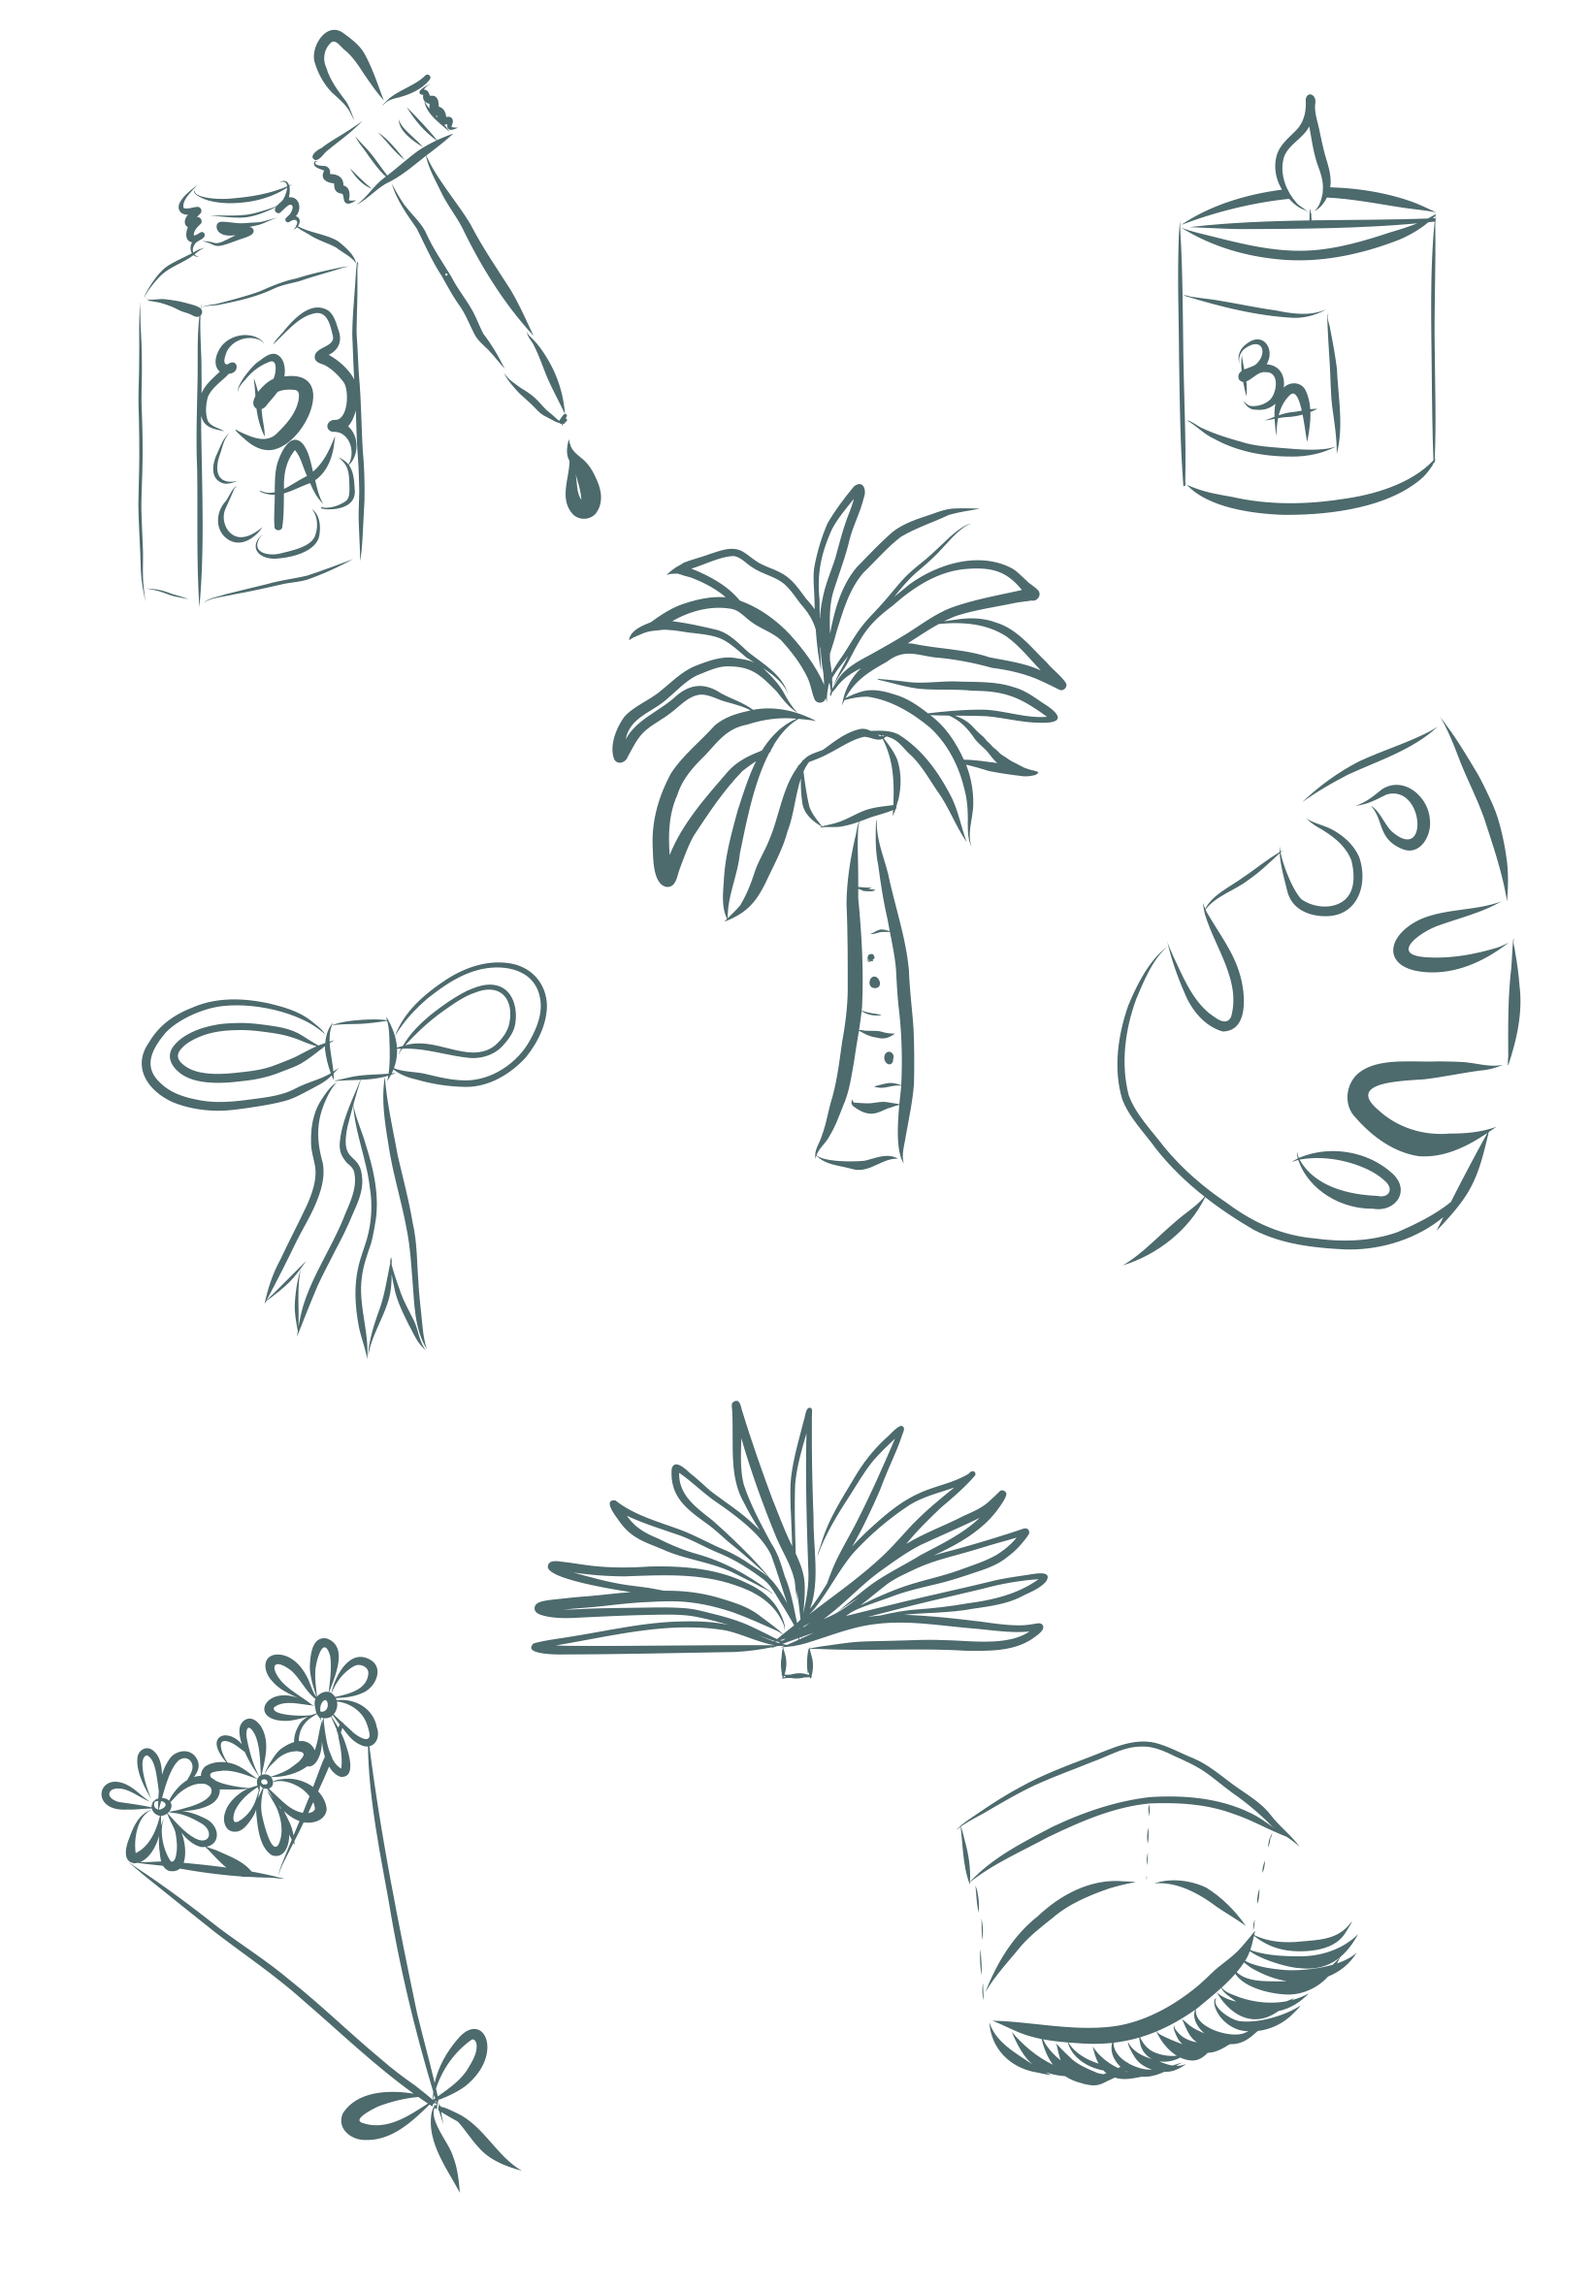
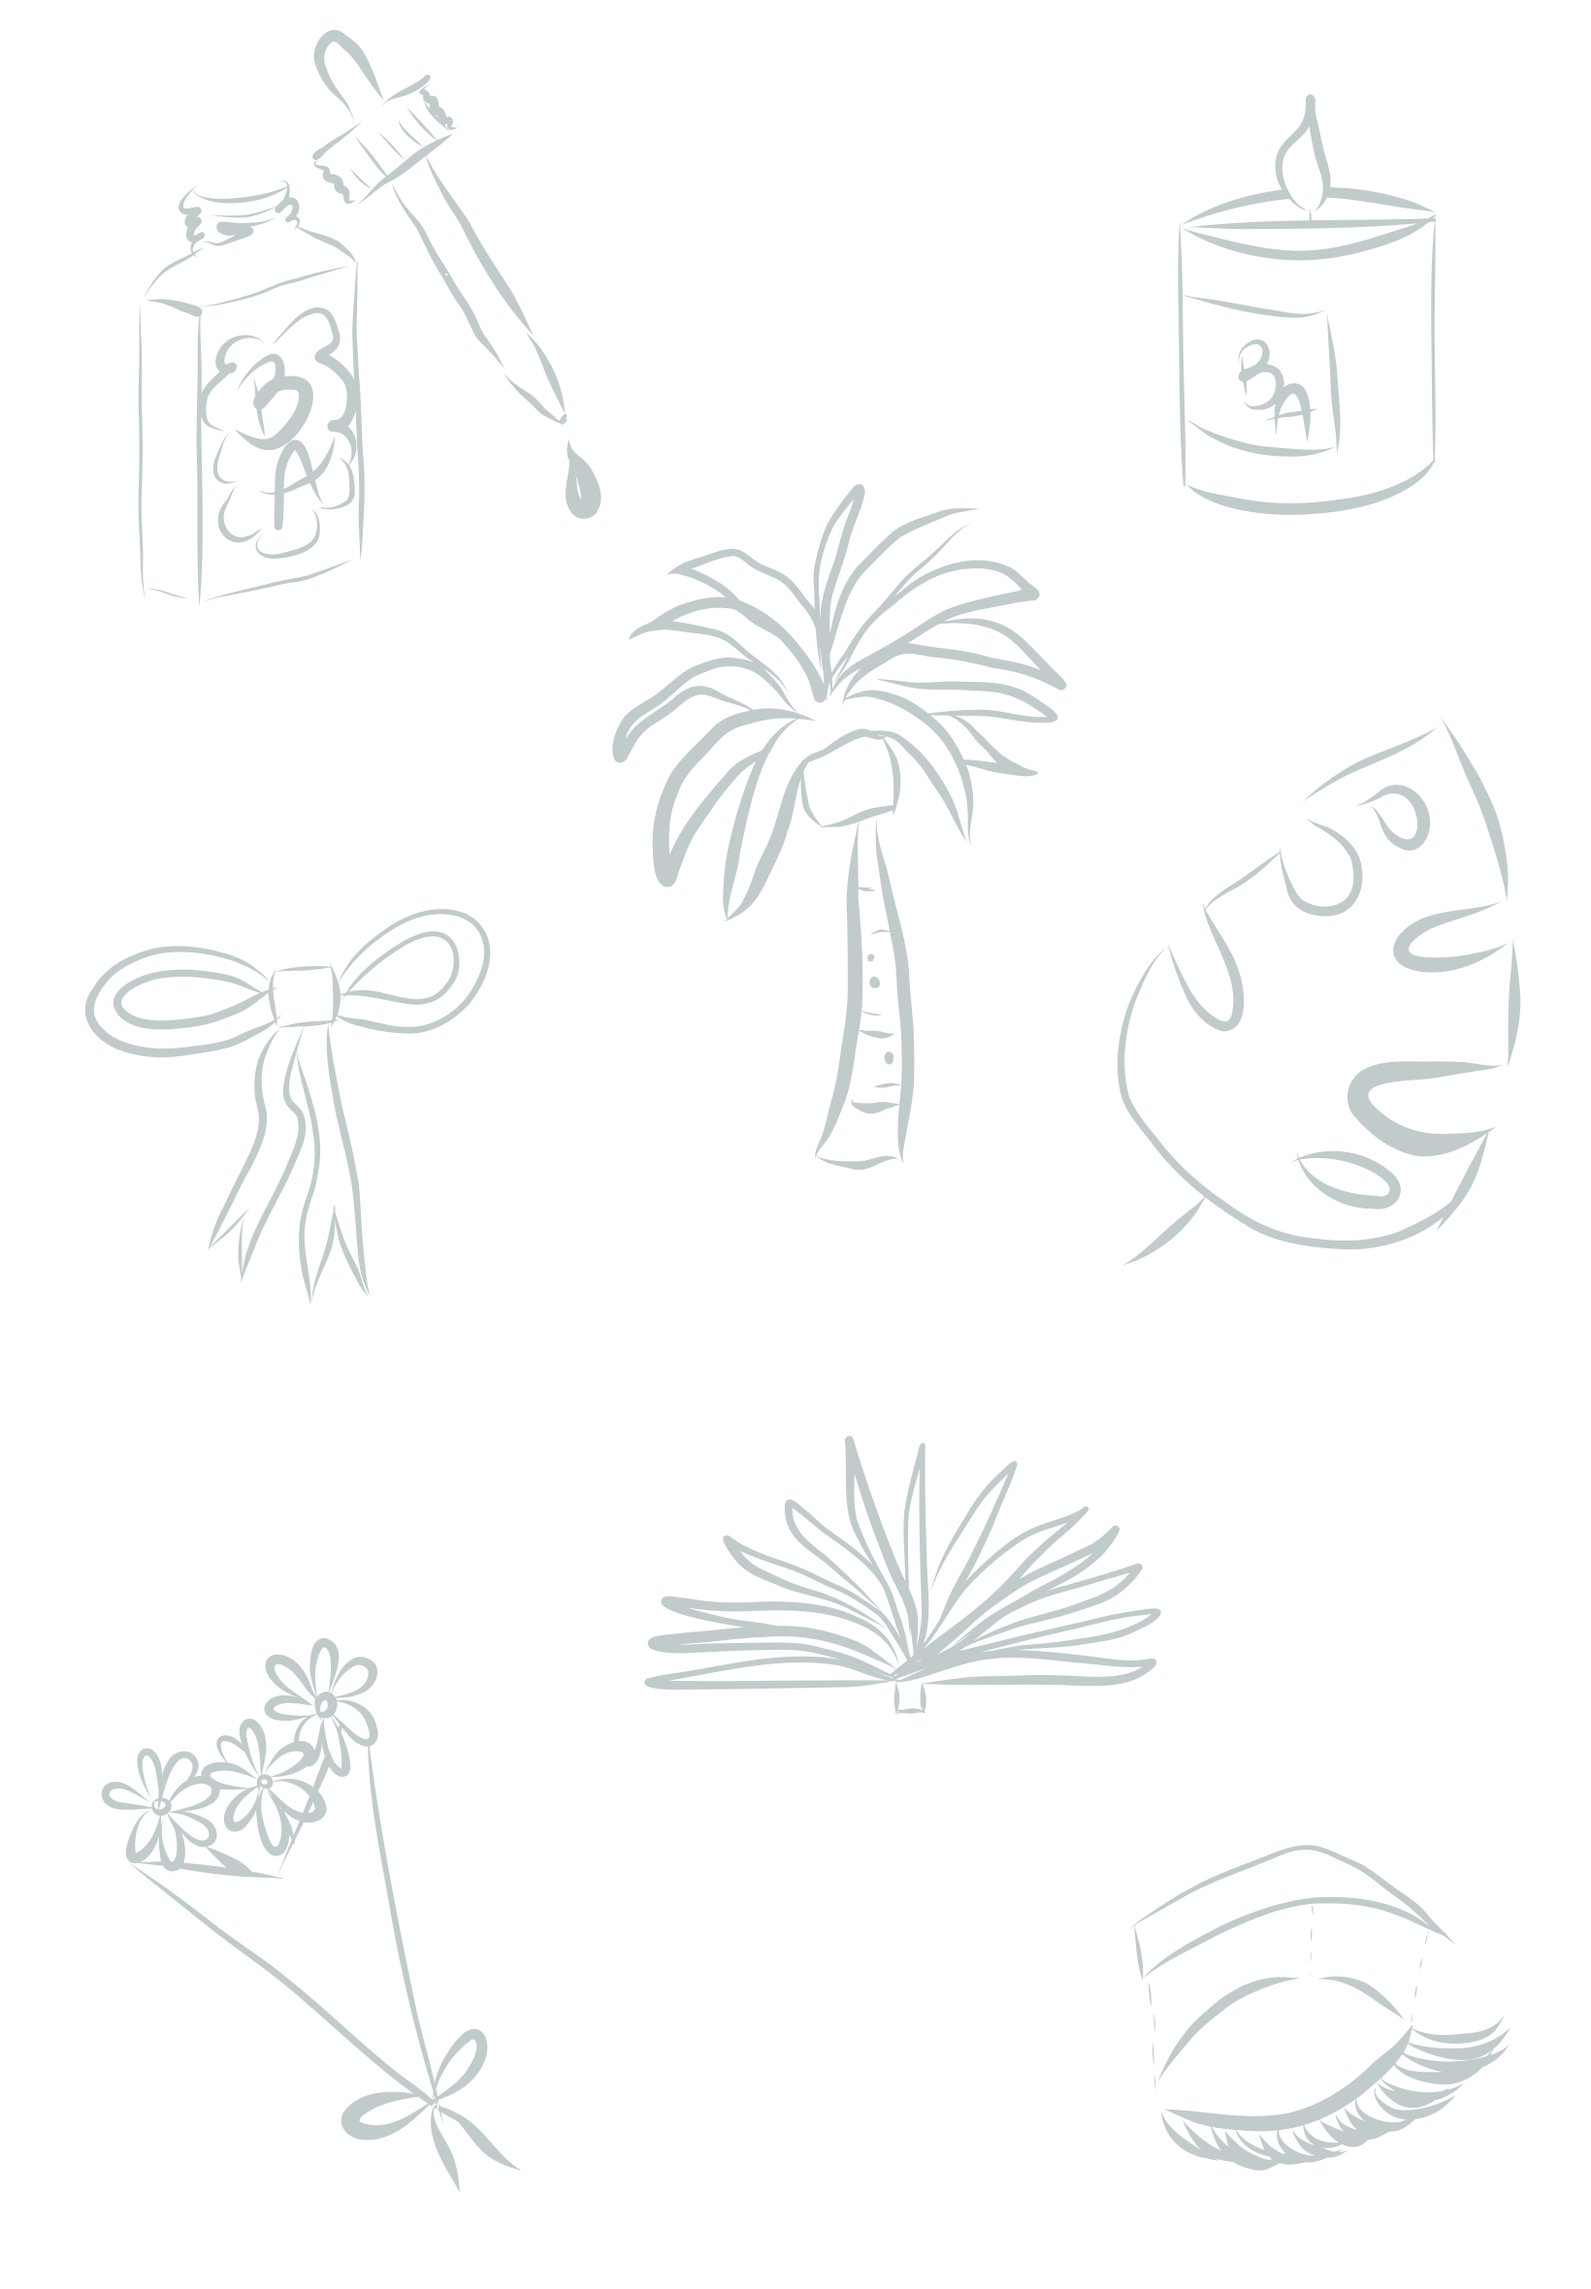
Add files via upload

diff --git a/style.css b/style.css
@@ -425,15 +425,11 @@ h2 {
     background-color: var(--gray-blue);
     transition: 0.3s ease;
 }
-.intro-home-image {
-    position: absolute;
-}
 .intro-home-image img {
-    position: relative;
-    height: 20rem;
-    top: -140px;
-    left: -20px;
+    display: block;
     opacity: 0.45;
+    margin: auto;
+    height: 16rem;
 }
 
 
@@ -466,6 +462,7 @@ h2 {
 
 .services-home-flex h2 {
     margin: 0;
+    font-size: 2rem;
 }
 
 .services-home-doodle img {
@@ -499,7 +496,8 @@ h2 {
 /* Gallery home */
 
 .gallery-home {
-    background-color: var(--green);
+    background: var(--green) url(img/BADoodlesPattern.png) center / cover;
+    background-repeat: repeat;
     padding: 1.5rem 1rem;
     text-align: center;
 }

diff --git a/index.html b/index.html
@@ -80,7 +80,7 @@
 
         <h2>Luxurious Services for Everone</h2>
         <div class="services-home-doodle">
-            <img src="img/DoodleEyelash.png" alt="">
+            <img src="img/DoodleEyelashkit.png" alt="">
         </div>
 
         </div>
